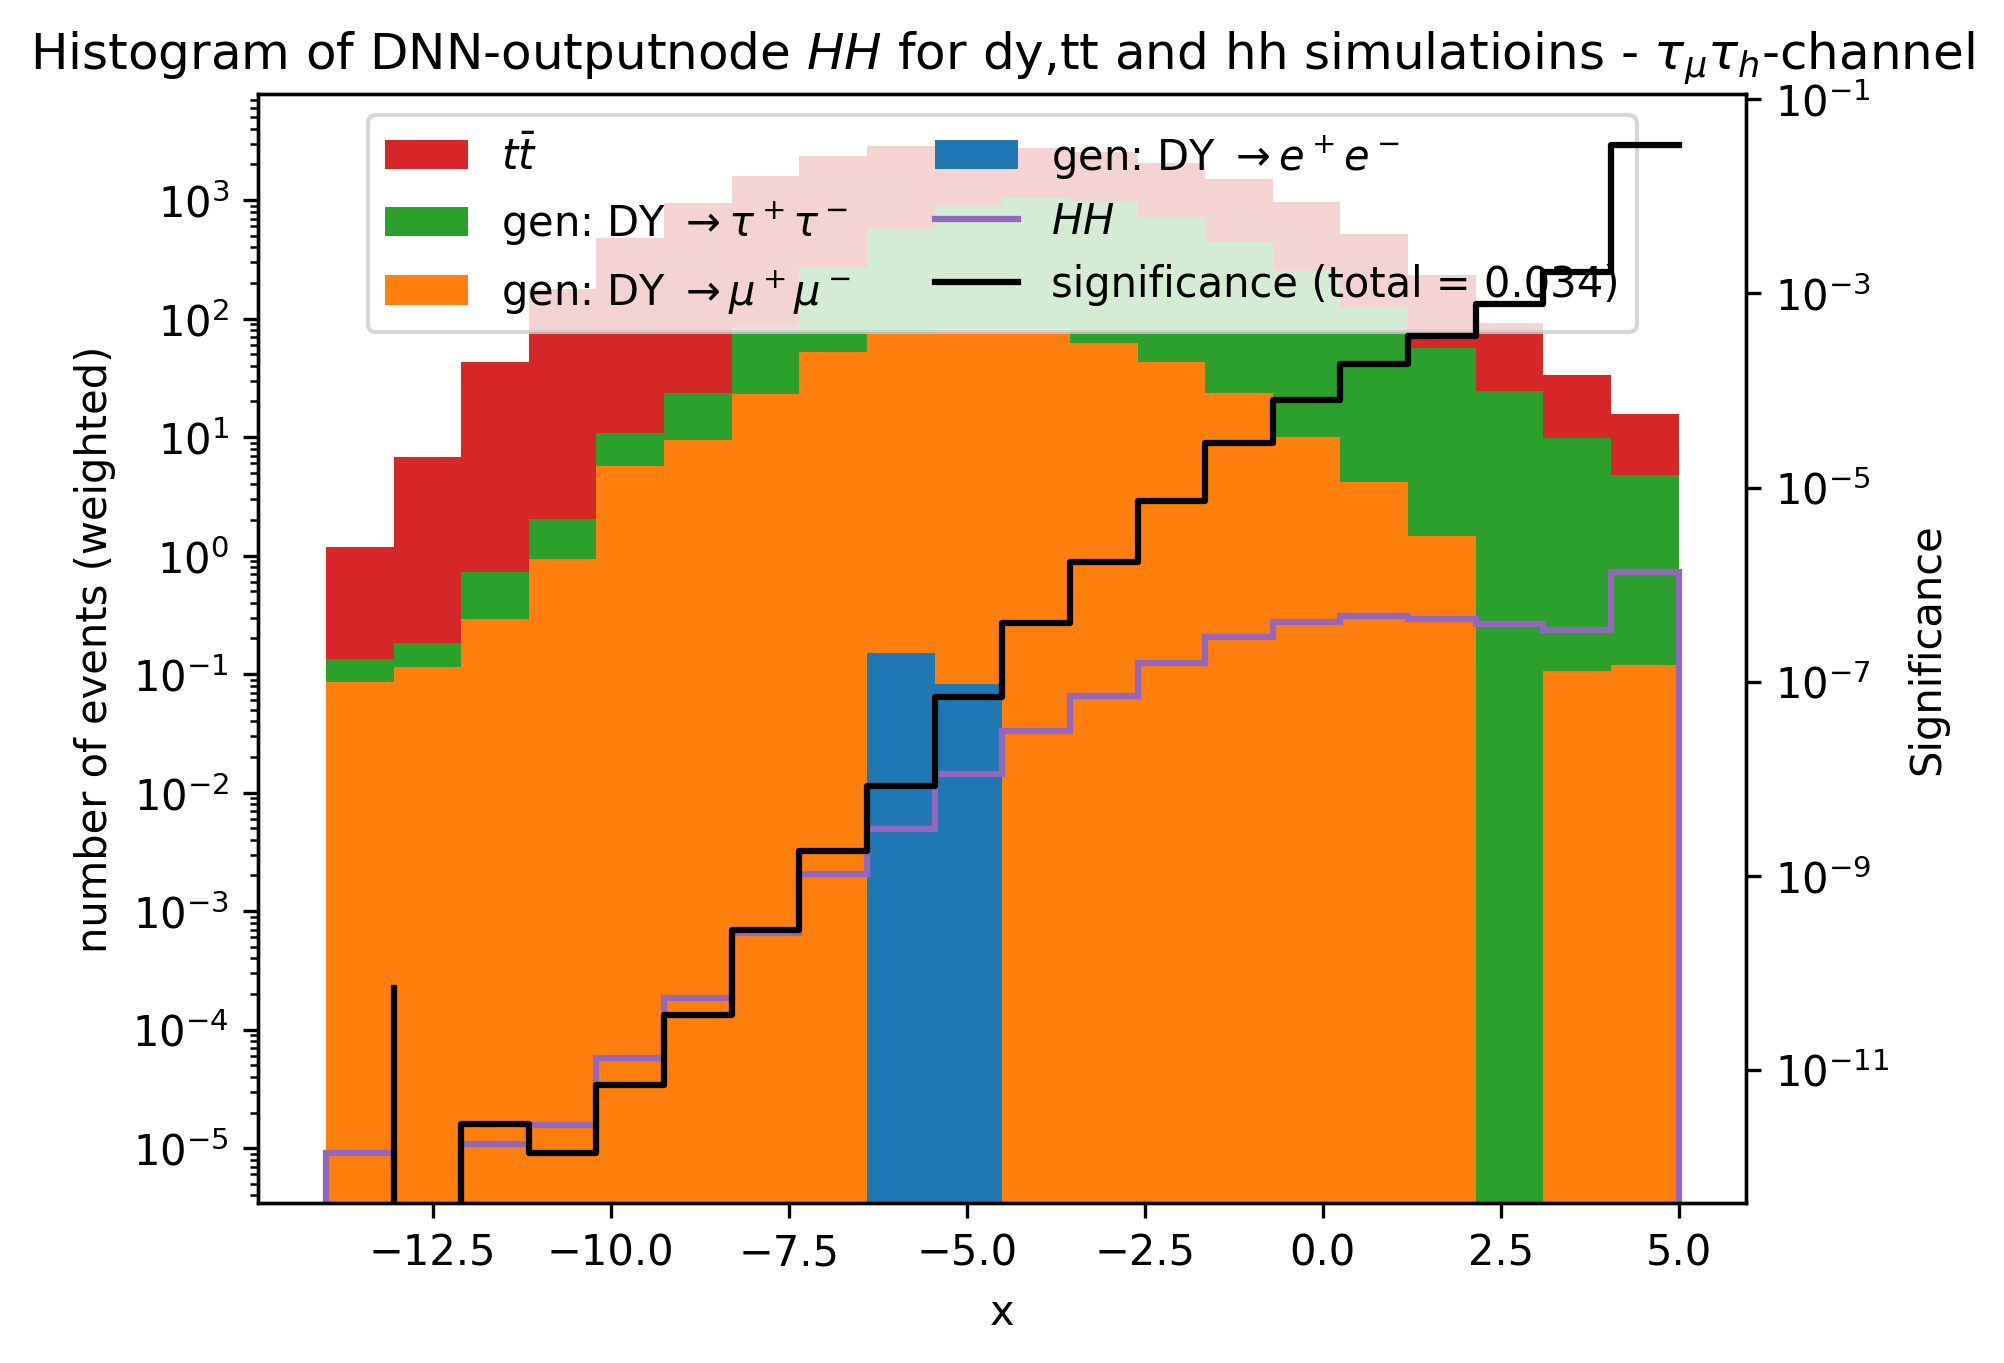
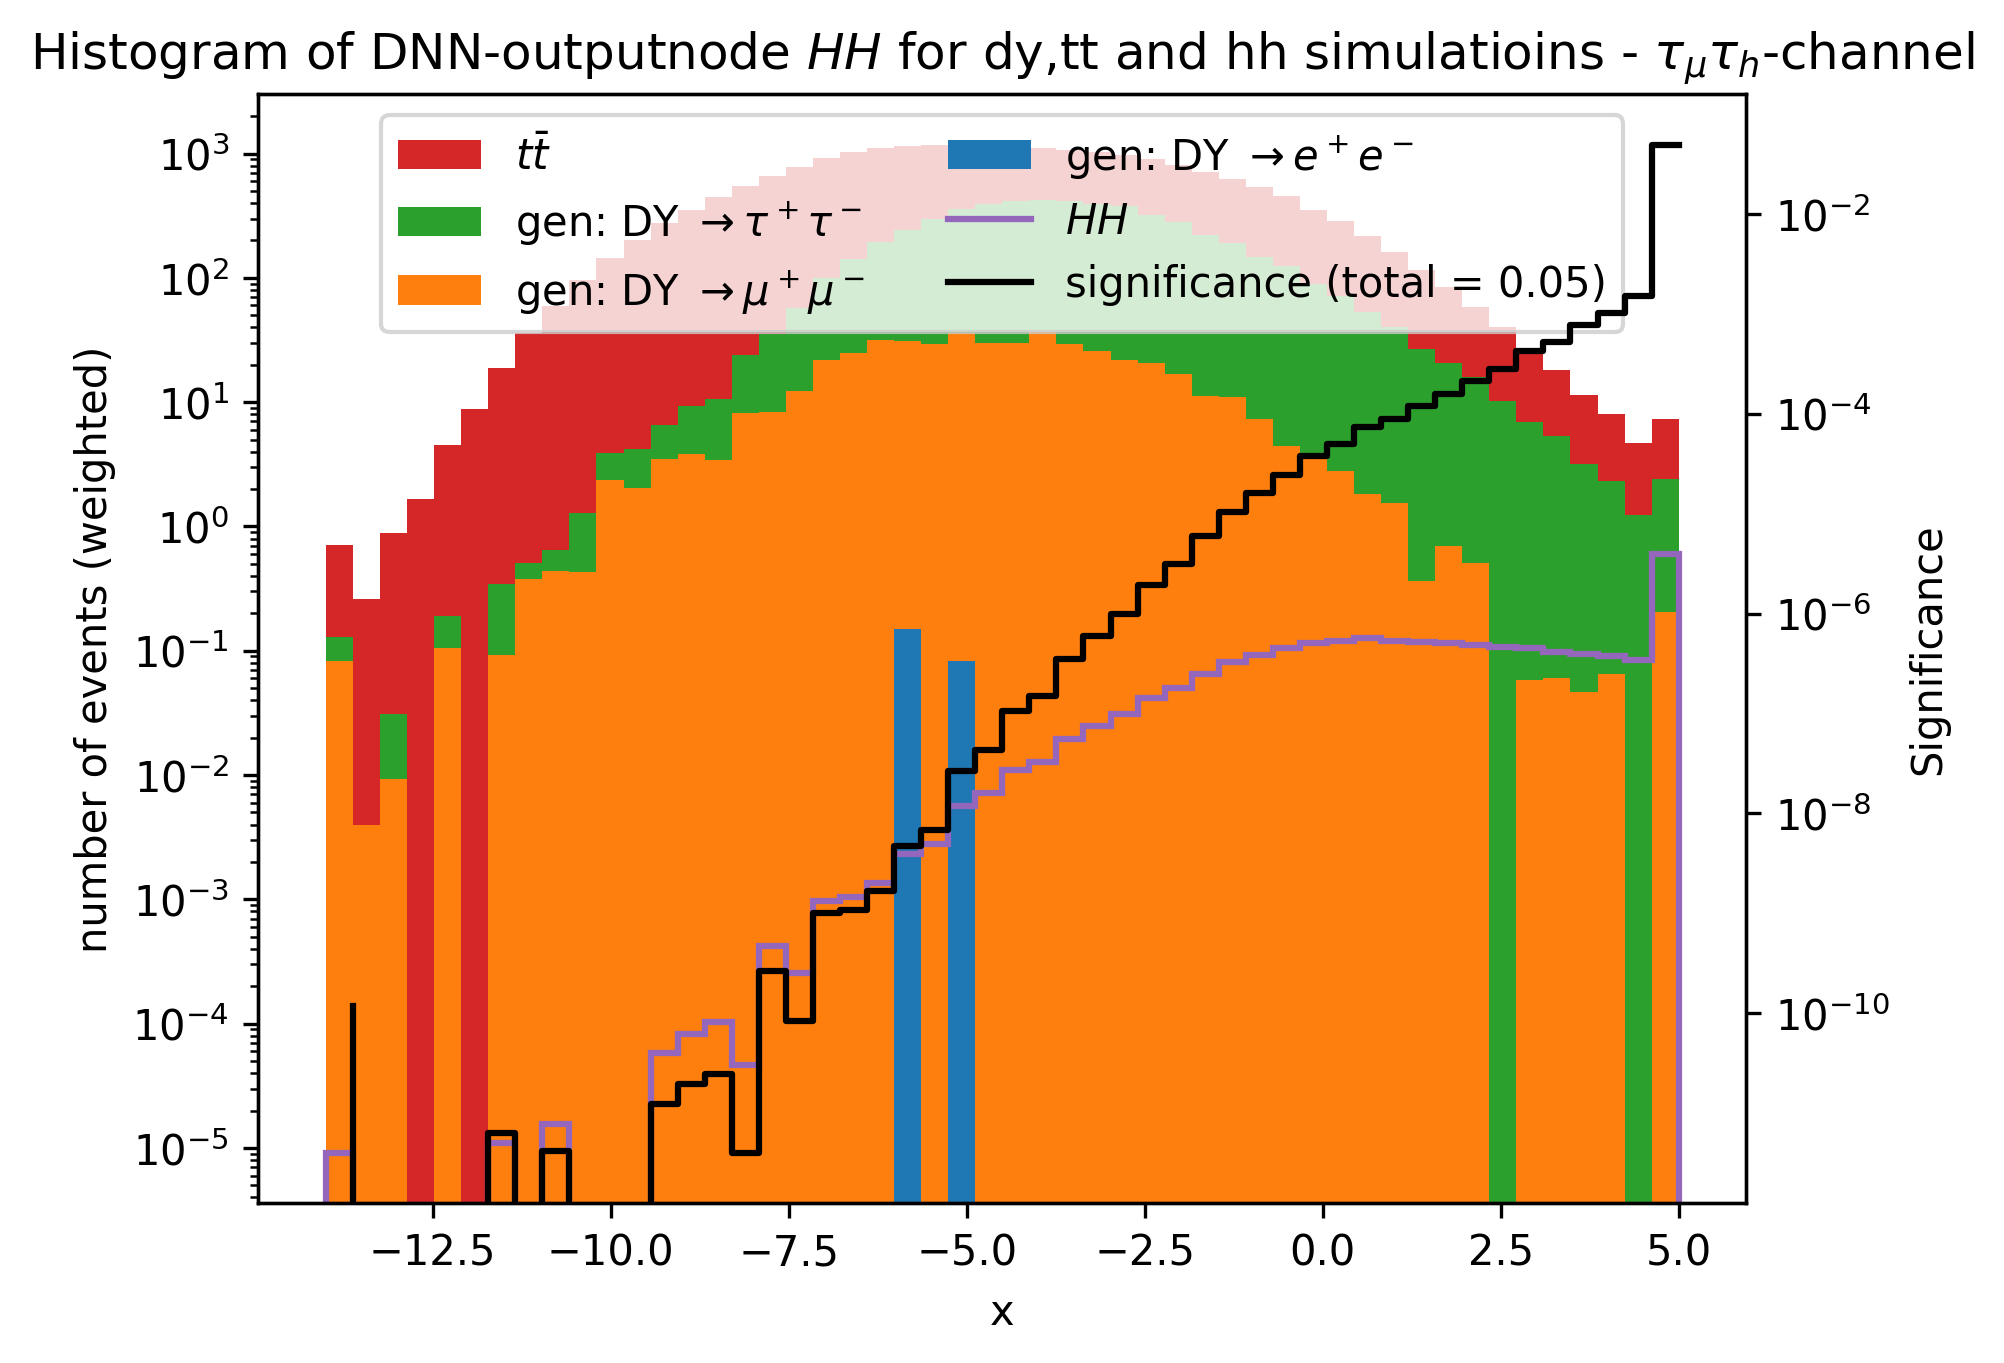
NAN werte in hist_2_subdevided_logit.py gefixt. kamen von background_bins=0 und signal_bins=0

diff --git a/plotting/hists_1_logit.py b/plotting/hists_1_logit.py
@@ -30,11 +30,11 @@ def stable_logit(x, eps=1e-6, limit=5.0):
 #Histogramme definieren, 2-D für dy wegen Unterteilung
 dy = Hist(
     hist.axis.StrCategory([], name="Zerfallskanal", growth=True),  #diese Achse wird später gestacked
-    hist.axis.Regular(bins=20, start=-14, stop=5, name="x")
+    hist.axis.Regular(bins=50, start=-14, stop=5, name="x")
 )
-tt = Hist(hist.axis.Regular(bins=20, start=-14, stop=5, name="x"))
-hh = Hist(hist.axis.Regular(bins=20, start=-14, stop=5, name="x"))
-s = Hist(hist.axis.Regular(bins=20, start=-14, stop=5, name="x"))
+tt = Hist(hist.axis.Regular(bins=50, start=-14, stop=5, name="x"))
+hh = Hist(hist.axis.Regular(bins=50, start=-14, stop=5, name="x"))
+s = Hist(hist.axis.Regular(bins=50, start=-14, stop=5, name="x"))
 
 #Namen der decay channel definieren:
 channelname=["e-tau", "mu-tau", "tau-tau"]
@@ -69,7 +69,7 @@ for i in [1,2,3]:
     significance = signal_bins**2/background_bins
     significance_total = round(np.sqrt(np.sum(significance**2)),3)
     ax2 = ax1.twinx()  # Erstellt die rechte Achse
-    ax2.step(np.linspace(-14+19/20, 5, 20),significance, label=f"significance (total = {significance_total})", color="black")
+    ax2.step(np.linspace(-14+19/50, 5, 50),significance, label=f"significance (total = {significance_total})", color="black")
     ax2.set_ylabel('Significance')
     ax2.tick_params(axis='y', labelcolor='black')
 
@@ -121,9 +121,8 @@ for i in [1,2,3]: #i steht für den channel
     significance = signal_bins**2/background_bins
     #significance = np.nan_to_num(significance, nan=0.0)
     significance_total = round(np.sqrt(np.sum(significance**2)),3)
-    from IPython import embed; embed(header="MESSAGE Line 112 | File: hists_1_logit.py")
     ax2 = ax1.twinx()  # Erstellt die rechte Achse
-    ax2.step(np.linspace(-14+19/20, 5, 20),significance, label=f"significance (total = {significance_total})", color="black")
+    ax2.step(np.linspace(-14+19/50, 5, 50),significance, label=f"significance (total = {significance_total})", color="black")
     ax2.set_ylabel('Significance')
     ax2.tick_params(axis='y', labelcolor='black')
 

diff --git a/plotting/hists_2_subdevided_logit.py b/plotting/hists_2_subdevided_logit.py
@@ -166,7 +166,7 @@ for i,id in enumerate([147,151,175,179,203,207],start=0): #id steht für categor
     background_bins = np.sum(dy.values(),axis=0)
     signal_bins = hh.values()
     significance = signal_bins**2/background_bins
-    #significance = np.nan_to_num(significance, nan=0.0)
+    significance = np.nan_to_num(significance, nan=0.0)  # Das ist hier möglich, da hier bei background=0 auch signal=0 gilt
     significance_total = round(np.sqrt(np.sum(significance**2)),3)
     ax2 = ax1.twinx()  # Erstellt die rechte Achse
     ax2.step(np.linspace(-14+19/50, 5, 50),significance, label=f"significance (total = {significance_total})", color="black")
